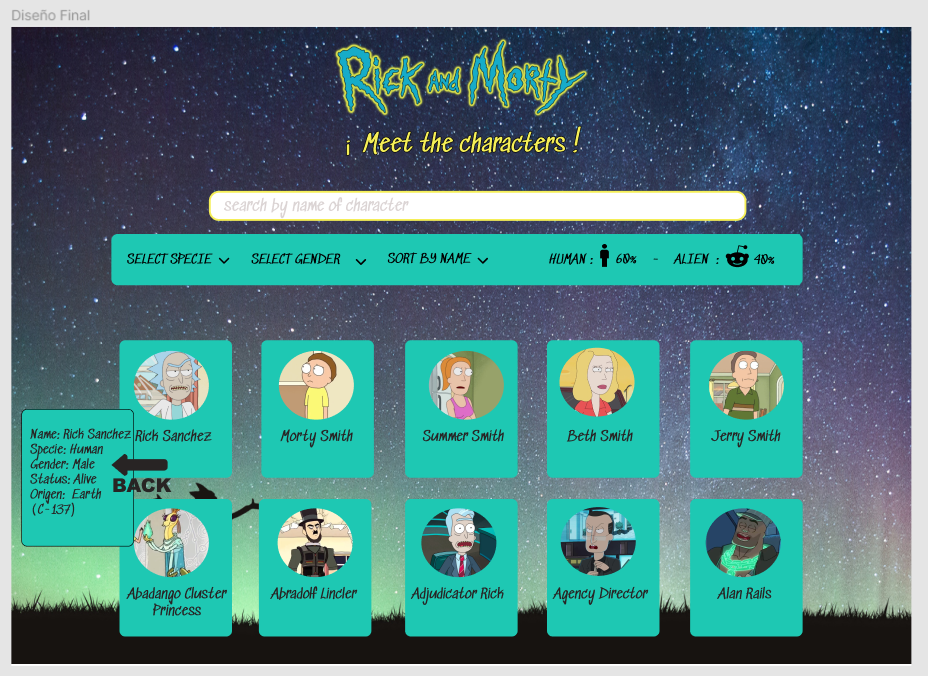
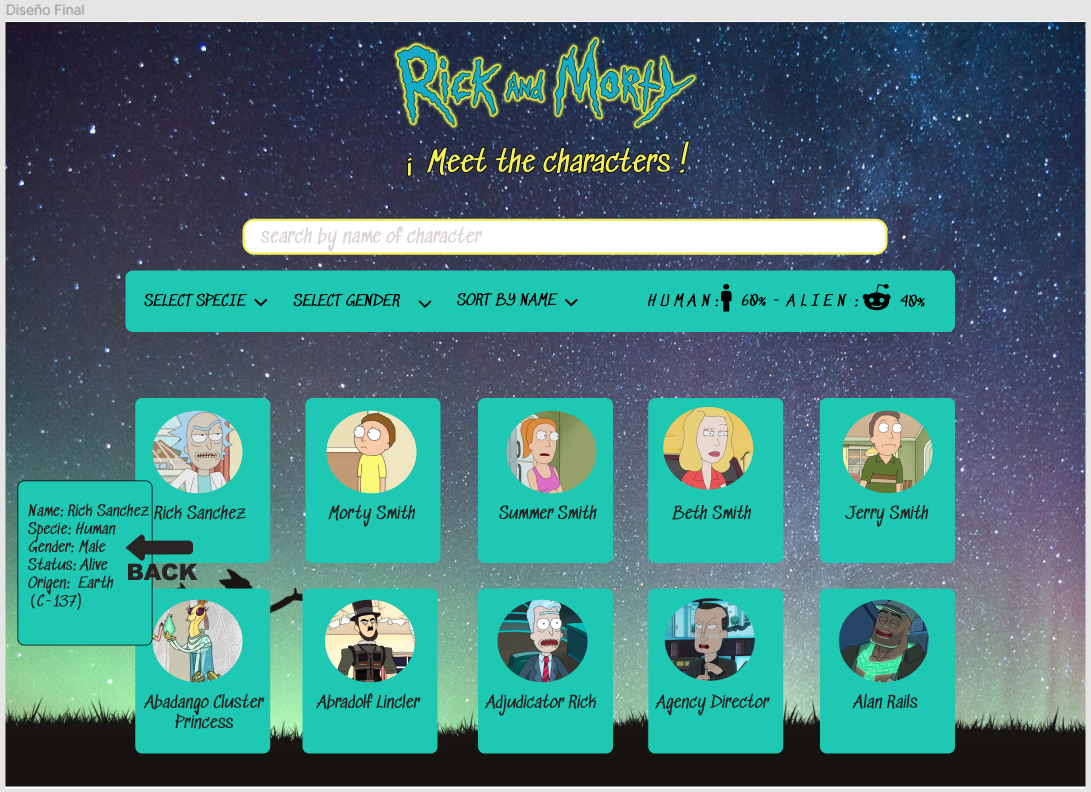
img responsive

diff --git a/src/style.css b/src/style.css
@@ -7,6 +7,8 @@
 }
 
 body {
+  
+  
   background: url(img/background-rickandmorty.jpg) center;
   background-size: cover;
   background-attachment: fixed;
@@ -40,7 +42,7 @@ header form {
 
 header .search {
   width: 60%;
-  height: 40px;
+  height: 2.5em;
   line-height: 2.5em;
   background: white;
   padding: 0 1.25em;
@@ -56,72 +58,64 @@ header .search {
 }
 
 .bar-container {
+  display: flex;
+  flex-flow: row wrap;
+  align-items: center;
   background: rgb(18, 194, 170);
   border-radius: 0.3125em;
-	display: flex;
-	align-items: center;
-	min-height: 50px;
-	
+  height: auto;
+  width: 100%;
+	padding: 1.25em;
 }
 
 .select-species {
-  font-size: 15px;
-  position: relative;
-  left: 40px;
+  display: flex;
   align-items: center;
   text-align: center;
   border: none;
   background-color: rgb(18, 194, 170);
-  padding: 10px;
-
-
+  padding: 0.625em;
+  font-size: 0.9375em;
+  margin:auto;
 }
 
 .select-gender {
-  font-size: 15px;
-  position: relative;
-  left: 70px;
+  display: flex;
   align-items: center;
   text-align: center;
   border: none;
   background-color: rgb(18, 194, 170);
-  padding: 10px;
- 
-
+  padding: 0.625em;
+  font-size: 0.9375em;
+  margin:auto;
 }
+
 .select-sort {
-  font-size: 15px;
-  position: relative;
-  left: 100px;
+  display: flex;
   align-items: center;
   text-align: center;
   border: none;
   background-color: rgb(18, 194, 170);
-  padding: 10px;
-
+  padding: 0.625em;
+  font-size: 0.9375em;
+  margin:auto;
 }
 
 .compute {
+  font-size: 0.9375em;
   display: flex;
-  flex-flow: row wrap;
-  position: relative;
-  left: 150px;
+  margin:auto;
   white-space:pre-line;
-  word-spacing: 4px;
-  letter-spacing: 5px;
-  
-}
-
-.compute i  {
-  position: relative;
-  
+  word-spacing: 0.25em;
+  letter-spacing: 0.3125em;
+   
 }
 
 .board {
   display: flex;
   flex-flow: row wrap;
   justify-content: space-around;
-  margin-top: 50px;
+  margin-top: 3.125em;
 }
 
 .card {
@@ -171,16 +165,41 @@ header .search {
   line-height: 1.5625em;
 }
 
-
-footer{
-    margin-top: 1.875em;
-    padding: 25px 0px;
-    text-decoration: none;
-    color: rgb(15, 15, 15);
-    background-color: #07b8af;
-    text-align: center;
-    opacity: 70%;
-    
+.facebook,
+.instagram,
+.twitter {
+  color: black;
+  font-size: 2.25em;
 }
 
 
+footer {
+  font-size: 1.25em;
+  margin-top: 1.875em;
+  padding: 1.5625em 0em;
+  text-decoration: none;
+  color: rgb(15, 15, 15);
+  background-color: #07b8af;
+  text-align: center;
+  opacity: 70%;   
+}
+
+
+
+@media (max-width: 1200px) {
+  body {
+    font-size: 0.875em;
+  }
+}
+
+@media (max-width: 768px) {
+  body {
+    font-size: 0.75em;
+  }
+}
+
+@media (max-width: 450px) {
+  body {
+    font-size: 0.75em;
+  }
+}

diff --git a/src/index.html b/src/index.html
@@ -22,7 +22,8 @@
                     </form>
            </header>    
           <main>   
-            <section class="bar-container" id="bar-container">
+            <section>
+            <div class="bar-container" id="bar-container">
                   <select name="selectSpecies" id="select-species" class="select-species">
                     <option value="specie" selected>SELECT SPECIE</option>
                     <option value="Human">HUMAN</option>
@@ -45,13 +46,11 @@
                     <option value="za">Z-A</option>
                   </select>
              
-                  <div class="compute" id="compute">
-                    <p class="specie" id="specie"></p>
-                    
+                  <div class="compute" id="compute">  
                     <p class="human"> HUMANS:<i class="fas fa-male"></i><span id="compute-human"></span>%</p>-         
-                    <p class="alien"> ALIENS:<i class="fab fa-reddit-alien"></i><span id="compute-alien"></span>%</p>
-                                     
-                  </div>               
+                    <p class="alien"> ALIENS:<i class="fab fa-reddit-alien"></i><span id="compute-alien"></span>%</p>                   
+                  </div>   
+            </div>            
             </section> 
                 <div class="board" id="board">
               </div>              
@@ -59,9 +58,9 @@
       </div> 
       <footer class="social-networks">     
           <p>Follow Rick and Morty</p>      
-          <i class="fab fa-facebook-square"><a href="https://es-la.facebook.com/RickandMorty/" class="facebook"></a></i>
-            <i class="fab fa-instagram-square"><a href="https://www.instagram.com/rickandmorty/?hl=es" class="instagram"></a></i>
-              <i class="fab fa-twitter-square"><a href="https://twitter.com/RickandMorty?ref_src=twsrc%5Egoogle%7Ctwcamp%5Eserp%7Ctwgr%5Eauthor" class="twitter"></a></i>
+          <a href="https://es-la.facebook.com/RickandMorty/" class="facebook"><i class="fab fa-facebook-square"></i></a>
+            <a href="https://www.instagram.com/rickandmorty/?hl=es" class="instagram"><i class="fab fa-instagram-square"></i></a>
+              <a href="https://twitter.com/RickandMorty?ref_src=twsrc%5Egoogle%7Ctwcamp%5Eserp%7Ctwgr%5Eauthor" class="twitter"><i class="fab fa-twitter-square"></i></a>
         
       </footer>
     <script src="main.js" type="module"></script>

diff --git a/README.md b/README.md
@@ -17,6 +17,7 @@
 
 ## 1. Resumen del proyecto
 
+
 En este proyecto se solicito construir una página web para visualizar un
 conjunto (set) de datos, que se adecuara a lo que descubriesemos que el 
 usuario requería. 
@@ -27,15 +28,20 @@ Dentro de los datos propuestos, elegimos el set de Rick and Morty, el cual
 nos proporcionaba la lista de personajes de la serie. 
 
 
+
 ## 2. Historias de Usuario 
+
 
 De acuerdo a la investigación entregada, la cual se basa en los seguidores 
 de Rick and Morty; realizamos nuestras 4 Historias de usuario, éstas cuentan con 
 criterios de aceptación y definición de terminado. 
 
+
 ![Alt historias-de-usuario3-4](src/img/historias-de-usuario3-4.png)
 
+
 ![Alt historias-de-usuario1-2](src/img/historias-de-usuario1-2.png)
+
 
 
 ## 3. Diseño de la Interfaz de Usuario
@@ -43,18 +49,24 @@ criterios de aceptación y definición de terminado.
 
 ### 3.1 Prototipo de baja fidelidad
 
+
 ![Alt prototipos-baja-fidelidad](src/img/prototipos-baja-fidelidad.png)
 
+
+
 ### 3.2 Prototipo de alta fidelidad
+
 
 ![Alt prototipos-iniciales-alta-fidelidad](src/img/prototipos-iniciales-alta-fidelidad.png)
 
 ![Alt cambios-de-prototipos](src/img/cambios-de-prototipos.png)
 
 
+
 ### 3.3 Testeos de usabilidad 
 
-Se realizaron encuestas personalizadas de usabilidad(Feedback compañeras) con distintos usuarios, 
+
+Se realizaron encuestas personalizadas de usabilidad (Feedback compañeras) con distintos usuarios, 
 a través de ellas se detecto: 
 
 - En el primer prototipo de alta fidelidad, el logo(imagen) elegido, no era legible para el usuario.
@@ -74,10 +86,15 @@ por lo tanto, se cambia a otro estilo de fuente proveniente de Google fonts.
 
 ### 3.4 Diseño final y responsive de UI
 
+
 ![Alt prototipos-baja-fidelidad](src/img/diseno-final.png)
+
+![Alt prototipos-baja-fidelidad](src/img/responsive.png)
+
 
 
 ## 4. Pruebas unitarias (unit tests)
+
 
 ![Alt pruebas-unitarias](src/img/pruebas-unitarias.png)
 
